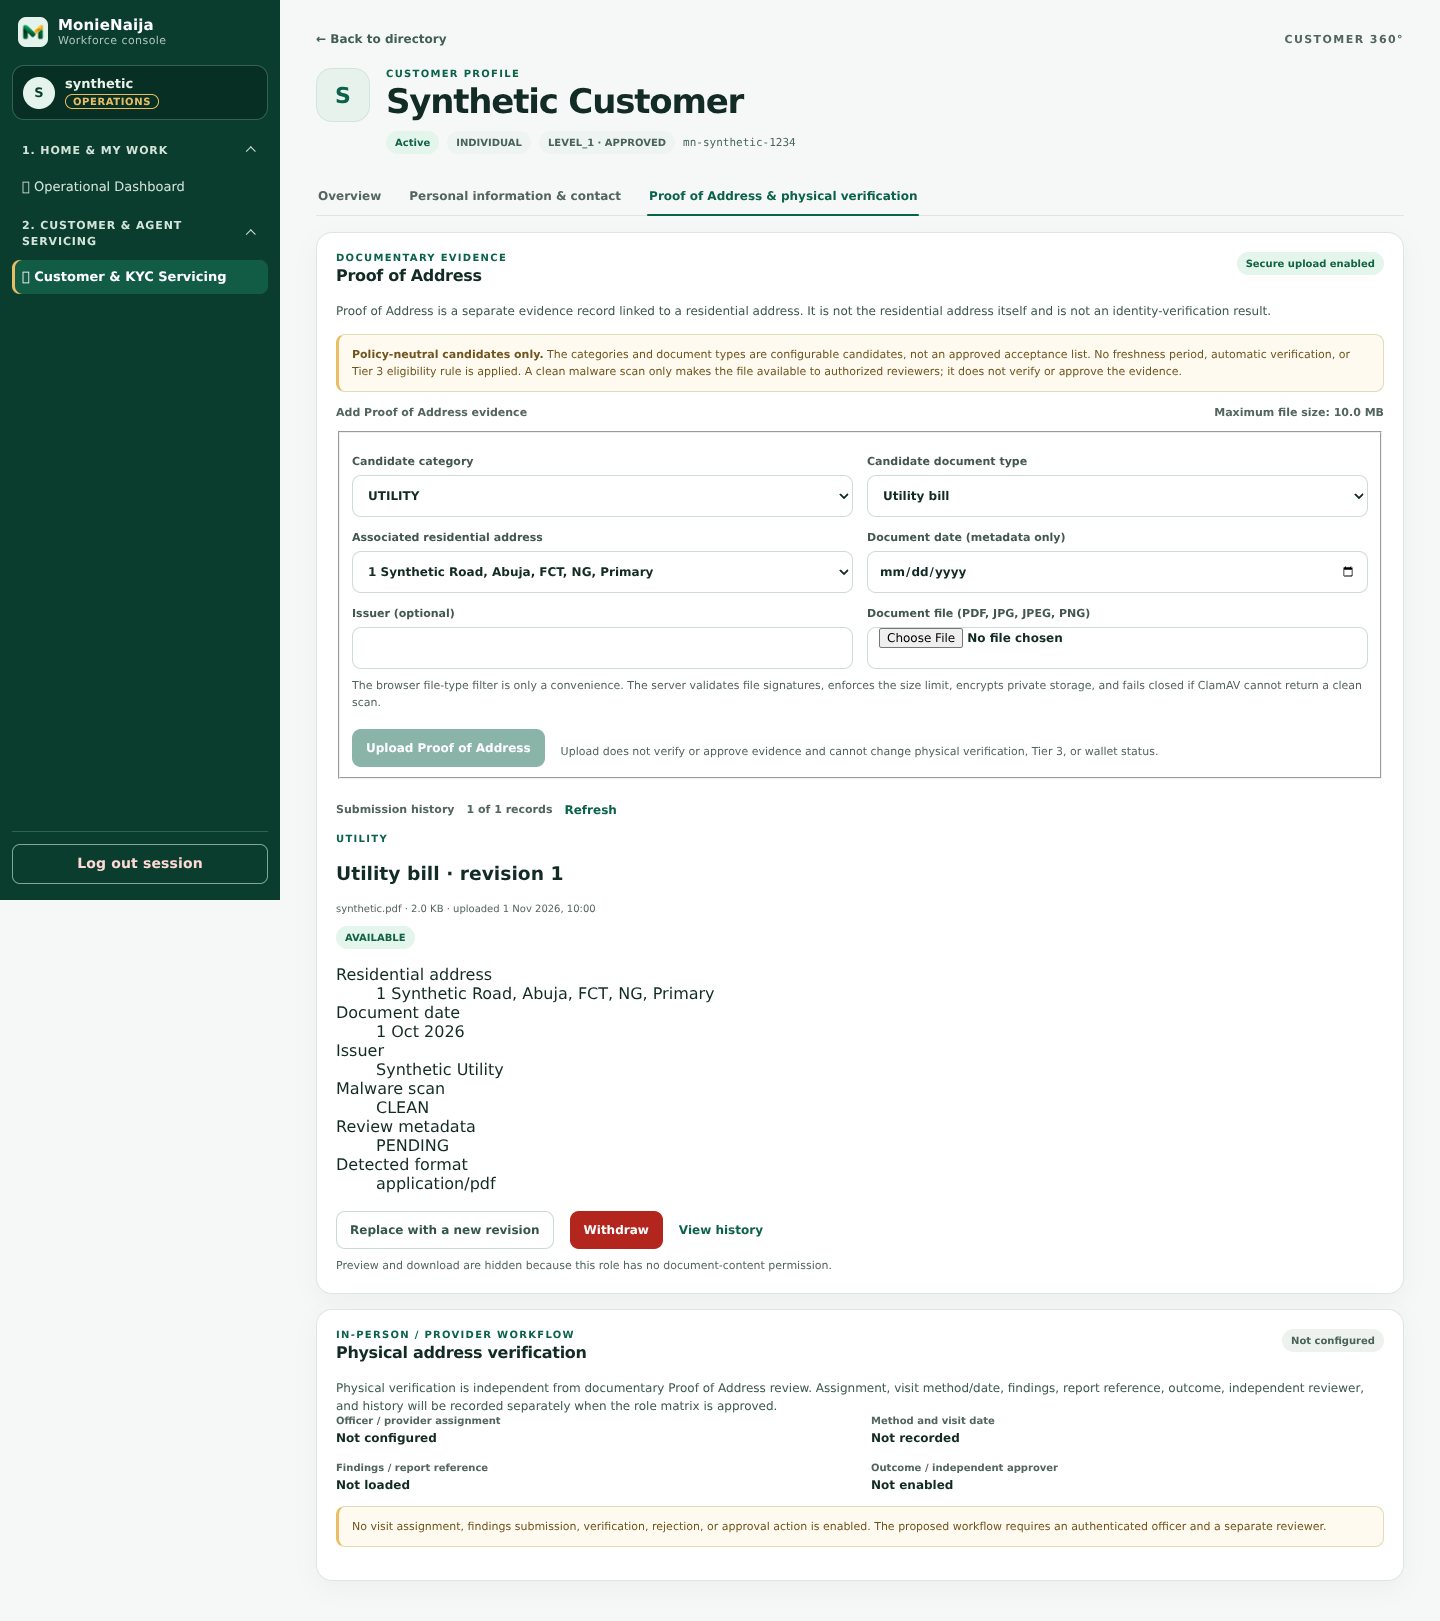
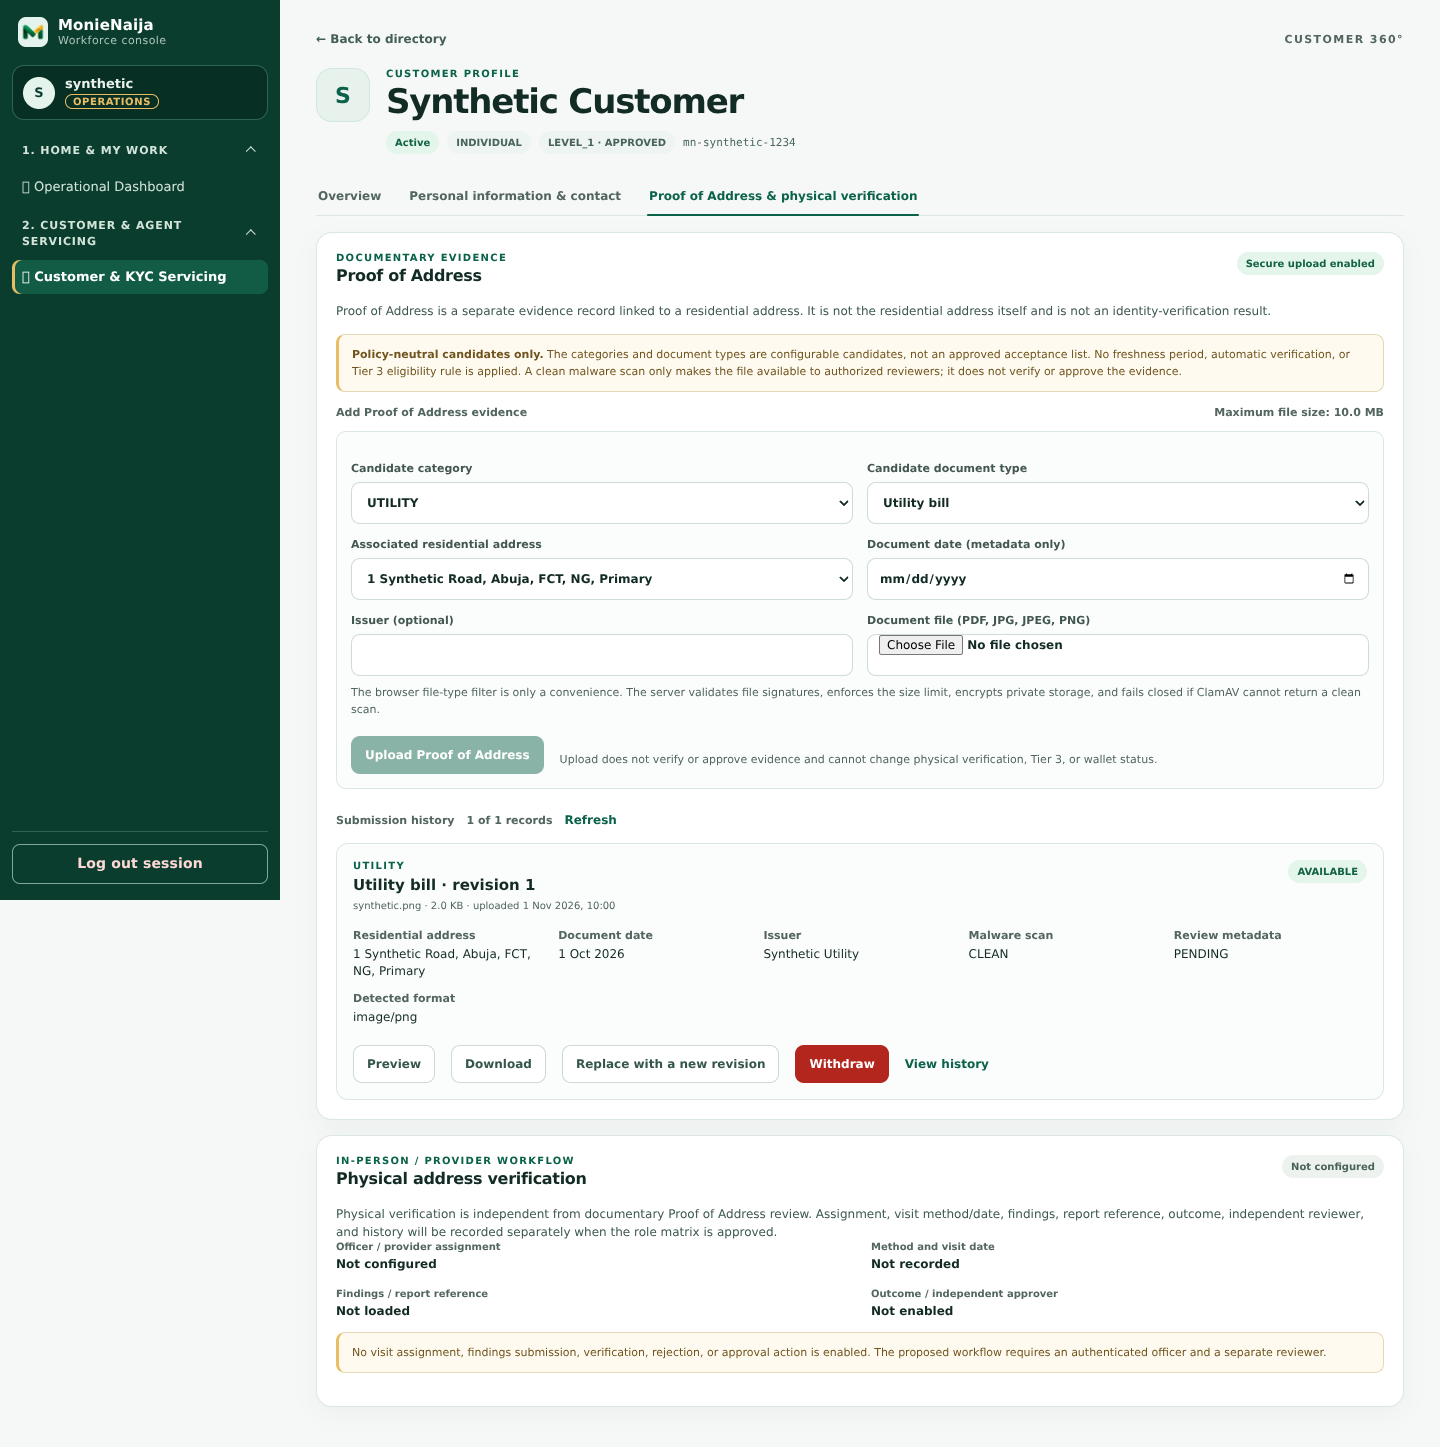
Improve proof of address focus and evidence layout

diff --git a/apps/admin-web/src/screens/authenticated/CustomerProofOfAddressPanel.tsx b/apps/admin-web/src/screens/authenticated/CustomerProofOfAddressPanel.tsx
@@ -272,8 +272,9 @@ export const CustomerProofOfAddressPanel: React.FC<CustomerProofOfAddressPanelPr
   const [lifecycleError, setLifecycleError] = useState<string | null>(null);
   const [lifecycleBusy, setLifecycleBusy] = useState(false);
   const previewDialogRef = useRef<HTMLElement>(null);
+  const previewTriggerRef = useRef<HTMLButtonElement | null>(null);
   const lifecycleDialogRef = useRef<HTMLFormElement>(null);
-  useDialogFocus(previewDialogRef, Boolean(preview), () => setPreview(null));
+  useDialogFocus(previewDialogRef, Boolean(preview), () => setPreview(null), previewTriggerRef);
   useDialogFocus(lifecycleDialogRef, Boolean(pendingLifecycle), () => { if (!lifecycleBusy) setPendingLifecycle(null); });
 
   const currentCustomerId = useRef(customerId);
@@ -636,7 +637,8 @@ export const CustomerProofOfAddressPanel: React.FC<CustomerProofOfAddressPanelPr
     }
   };
 
-  const openPreview = async (document: ProofOfAddressDocument) => {
+  const openPreview = async (document: ProofOfAddressDocument, trigger: HTMLButtonElement) => {
+    previewTriggerRef.current = trigger;
     previewRequest.current?.abort();
     const controller = new AbortController();
     previewRequest.current = controller;
@@ -1046,7 +1048,7 @@ export const CustomerProofOfAddressPanel: React.FC<CustomerProofOfAddressPanelPr
                           <button
                             className="cm-button cm-button-secondary"
                             type="button"
-                            onClick={() => void openPreview(document)}
+                            onClick={(event) => void openPreview(document, event.currentTarget)}
                             disabled={previewLoadingId === document.id}
                           >
                             {previewLoadingId === document.id ? 'Opening preview…' : 'Preview'}

diff --git a/apps/admin-web/__tests__/customer-proof-of-address.test.tsx b/apps/admin-web/__tests__/customer-proof-of-address.test.tsx
@@ -361,6 +361,26 @@ describe('Customer Proof of Address and readiness interfaces', () => {
     expect(screen.queryByText(/No Proof of Address records are stored/i)).toBeNull();
   });
 
+  test('asynchronous preview restores focus to its trigger even when focus leaves during loading', async () => {
+    setPermissions([...operationsScopes, 'customer.download_proof_of_address']);
+    configureEnabledApi();
+    let resolvePreview!: (blob: Blob) => void;
+    (ApiClient.getBlob as jest.Mock).mockImplementation(() => new Promise<Blob>((resolve) => { resolvePreview = resolve; }));
+    render(<CustomerProofOfAddressPanel customerId={customerId} />);
+    await screen.findByRole('heading', { name: 'Utility bill · revision 1' });
+    const trigger = screen.getByRole('button', { name: 'Preview' });
+    trigger.focus();
+    fireEvent.click(trigger);
+    expect(trigger).toHaveProperty('disabled', true);
+    trigger.blur();
+    resolvePreview(new Blob(['synthetic'], { type: 'application/pdf' }));
+    const dialog = await screen.findByRole('dialog');
+    expect(within(dialog).getByRole('button', { name: 'Close preview' })).toBe(document.activeElement);
+    fireEvent.keyDown(document.activeElement!, { key: 'Escape' });
+    expect(screen.queryByRole('dialog')).toBeNull();
+    expect(document.activeElement).toBe(trigger);
+  });
+
   test('document lifecycle dialog supports Escape and restores focus without submitting', async () => {
     setPermissions(operationsScopes);
     configureEnabledApi();

diff --git a/apps/admin-web/src/screens/authenticated/customer-management.css b/apps/admin-web/src/screens/authenticated/customer-management.css
@@ -1191,6 +1191,53 @@
   display: grid;
   gap: 15px;
 }
+.cm-poa-upload-form fieldset {
+  min-width: 0;
+  margin: 0;
+  border: 1px solid var(--cm-border);
+  border-radius: 10px;
+  padding: 14px;
+  background: #fbfdfc;
+}
+.cm-poa-document-list {
+  display: grid;
+  gap: 12px;
+  margin-top: 12px;
+}
+.cm-poa-document {
+  min-width: 0;
+  border: 1px solid var(--cm-border);
+  border-radius: 12px;
+  padding: 16px;
+  background: #fbfdfc;
+  overflow-wrap: anywhere;
+}
+.cm-poa-document-heading {
+  display: flex;
+  align-items: flex-start;
+  justify-content: space-between;
+  flex-wrap: wrap;
+  gap: 10px;
+}
+.cm-poa-document-heading h3 { margin: 5px 0; font-size: 15px; }
+.cm-poa-document-heading .cm-secondary-line { margin: 0; }
+.cm-poa-document-metadata {
+  display: grid;
+  grid-template-columns: repeat(auto-fit, minmax(min(100%, 180px), 1fr));
+  gap: 12px;
+  margin: 16px 0;
+}
+.cm-poa-document-metadata > div { min-width: 0; }
+.cm-poa-document-metadata dt {
+  color: var(--cm-muted);
+  font-size: 11px;
+  font-weight: 700;
+}
+.cm-poa-document-metadata dd {
+  margin: 4px 0 0;
+  font-size: 12px;
+  line-height: 1.45;
+}
 .cm-poa-metadata-preview {
   margin-top: 16px;
 }

diff --git a/apps/admin-web/src/utils/use-dialog-focus.ts b/apps/admin-web/src/utils/use-dialog-focus.ts
@@ -5,13 +5,14 @@ export function useDialogFocus<T extends HTMLElement>(
   dialog: RefObject<T>,
   open: boolean,
   onDismiss: () => void,
+  restoreFocusRef?: RefObject<HTMLElement>,
 ) {
   const dismiss = useRef(onDismiss);
   dismiss.current = onDismiss;
   useEffect(() => {
     if (!open || !dialog.current) return;
     const root = dialog.current;
-    const previous = document.activeElement instanceof HTMLElement ? document.activeElement : null;
+    const previous = restoreFocusRef?.current ?? (document.activeElement instanceof HTMLElement ? document.activeElement : null);
     const focusable = () => Array.from(root.querySelectorAll<HTMLElement>(
       'button:not([disabled]), input:not([disabled]):not([type="hidden"]), select:not([disabled]), textarea:not([disabled]), a[href], iframe, [tabindex]:not([tabindex="-1"])',
     )).filter(element => !element.hidden && element.getAttribute('aria-hidden') !== 'true');

diff --git a/docs/admin-m2/implementation-checklist.md b/docs/admin-m2/implementation-checklist.md
@@ -48,7 +48,7 @@ Baseline: `3b0ca4488fb40ac5a64ed4ff6264dc64be2e954e` (fetched integration branch
 | [E01](../design-discovery-20261029/01-inventory.md#E01) | Customer 360 workspace | Partial: customer-switch guards, honest readiness/errors, exact money, keyboard tabs and lifecycle dialog focus; synthetic populated overview at eight widths; action review pending. |
 | [E02](../design-discovery-20261029/01-inventory.md#E02) | Customer registration wizard | Partial: palette, current-step semantics, step and validation focus, close-trigger focus restoration and synthetic keyboard checks at eight widths; submission and full keyboard review pending. |
 | [E03](../design-discovery-20261029/01-inventory.md#E03) | Personal information & contact | Partial: safe failed/malformed reads and synthetic populated workspace at eight widths; action review pending. |
-| [E04](../design-discovery-20261029/01-inventory.md#E04) | Proof of address | Partial: safe failed/malformed reads and synthetic populated workspace at eight widths; action review pending. |
+| [E04](../design-discovery-20261029/01-inventory.md#E04) | Proof of address | Partial: safe failed/malformed reads, styled evidence records and synthetic populated workspace at eight widths; preview and withdrawal dialogs tested for keyboard trap, Escape and focus restoration including asynchronous preview; action review pending. |
 | [E05](../design-discovery-20261029/01-inventory.md#E05) | Tier 3 readiness | Partial: safe failed/malformed reads and synthetic populated workspace at eight widths; action review pending. |
 | [E06](../design-discovery-20261029/01-inventory.md#E06) | Agent funding/defunding | Partial: responsive funding form, verified maker/decision/posting receipts, recoverable retained drafts, scoped session and request guards; synthetic checker approval and posting at eight widths; broader maker/checker acceptance pending. |
 | [E07](../design-discovery-20261029/01-inventory.md#E07) | Agent credentials | Partial: scoped styles, credential request/context guards and secret clearing; synthetic loaded detail at eight widths; action review pending. |
@@ -72,10 +72,10 @@ An earlier UI note incorrectly stated that the case endpoint had no catalogue ch
 | Financial truth and data freshness | Partial: reconciliation does not equate zero binding discrepancies with balanced books; stale report flagged, C2C incomplete journals unknown, exact amounts in selected surfaces. Remaining financial displays and action states require review. |
 | Error vs empty / stale | Partial: Audit, history, Support, Compliance, Fraud, Workforce, Ledger, Agent lists, C2C and Notification read failures improved. Other surfaces and refresh races require review. |
 | Authorization, maker-checker, MFA and APIs | Existing tests pass; no intended policy, endpoint or financial action changes. Per-action/role acceptance remains. |
-| Responsive widths and zoom | [Navigation smoke](evidence/navigation-smoke.json): 224 synthetic mostly initial/503 cases at 320, 360, 390, 768, 769, 1024, 1280 and 1440 px, no document overflow. [Loaded smoke](evidence/loaded-smoke.json): 24 populated Support, Fees and Ledger cases at those widths, no document overflow. [Agent](evidence/agent-workspaces-smoke.json), [Customer](evidence/customer-workspaces-smoke.json), and [Notification workspaces](evidence/notification-workspaces-smoke.json) add 104 synthetic populated checks at eight widths with no document overflow. [Recovery](evidence/recovery-smoke.json), [Workforce](evidence/workforce-smoke.json) and [generic approvals](evidence/approvals-smoke.json) add 48 synthetic checks at eight widths without document overflow. [Compliance](evidence/compliance-smoke.json) adds 24 and [Agent classes](evidence/agent-classes-smoke.json) adds 8 loaded synthetic checks, also without document overflow. [Transactions](evidence/transaction-workspaces-smoke.json) add 24, [Finance](evidence/finance-workspaces-smoke.json) 16, [Commercial](evidence/commercial-workspaces-smoke.json) 48 and [System/Audit](evidence/system-audit-smoke.json) 16 and [Cash-to-Cash](evidence/cash-to-cash-smoke.json) 8 and [funding checker](evidence/funding-checker-smoke.json) 8 synthetic checks across the same widths, without page-wide overflow. This is not comprehensive responsive acceptance; real 200%/400% zoom and all other populated/action states remain. Headless Chromium did not respond to Ctrl-plus browser zoom (viewport and device pixel ratio unchanged); viewport-width checks are not claimed as zoom acceptance. |
-| Keyboard, contrast and assistive technology | Commercial tab keyboard test plus browser keyboard checks for mobile drawer trapping/Escape, Customer 360 dialog trapping/restoration, customer tabs and registration validation/close at the applicable widths; comprehensive manual keyboard, contrast and assistive technology review remains. |
+| Responsive widths and zoom | [Navigation smoke](evidence/navigation-smoke.json): 224 synthetic mostly initial/503 cases at 320, 360, 390, 768, 769, 1024, 1280 and 1440 px, no document overflow. [Loaded smoke](evidence/loaded-smoke.json): 24 populated Support, Fees and Ledger cases at those widths, no document overflow. [Agent](evidence/agent-workspaces-smoke.json), [Customer](evidence/customer-workspaces-smoke.json), and [Notification workspaces](evidence/notification-workspaces-smoke.json) add 133 synthetic populated and keyboard checks at eight widths with no document overflow. [Recovery](evidence/recovery-smoke.json), [Workforce](evidence/workforce-smoke.json) and [generic approvals](evidence/approvals-smoke.json) add 48 synthetic checks at eight widths without document overflow. [Compliance](evidence/compliance-smoke.json) adds 24 and [Agent classes](evidence/agent-classes-smoke.json) adds 8 loaded synthetic checks, also without document overflow. [Transactions](evidence/transaction-workspaces-smoke.json) add 24, [Finance](evidence/finance-workspaces-smoke.json) 16, [Commercial](evidence/commercial-workspaces-smoke.json) 48 and [System/Audit](evidence/system-audit-smoke.json) 16 and [Cash-to-Cash](evidence/cash-to-cash-smoke.json) 8 and [funding checker](evidence/funding-checker-smoke.json) 8 synthetic checks across the same widths, without page-wide overflow. This is not comprehensive responsive acceptance; real 200%/400% zoom and all other populated/action states remain. Headless Chromium did not respond to Ctrl-plus browser zoom (viewport and device pixel ratio unchanged); viewport-width checks are not claimed as zoom acceptance. |
+| Keyboard, contrast and assistive technology | Commercial tab keyboard test plus browser keyboard checks for mobile drawer trapping/Escape, Customer 360 dialog trapping/restoration, customer tabs, registration validation/close and Proof of Address preview/withdrawal dialogs at the applicable widths; comprehensive manual keyboard, contrast and assistive technology review remains. |
 | Visual design, screenshots and owner acceptance | [Synthetic screenshots and scripts](evidence/) include Login, Dashboard, Support, Agents, Notifications, Transfers, populated Fees and Ledger at selected widths. They are not visual acceptance. Obtain Product/Design, Accessibility, Security and Finance/Operations review as applicable; historical design approval remains unconfirmed. |
-| Automated checks | Latest full run: frontend typecheck, 56 Jest suites / 418 tests and production build passed; `git diff --check` passed. React test `act(...)` warnings, Vite CJS deprecation and >500 kB bundle warning remain. No Admin lint script provided. |
+| Automated checks | Latest full run: frontend typecheck, 56 Jest suites / 419 tests and production build passed; `git diff --check` passed. React test `act(...)` warnings, Vite CJS deprecation and >500 kB bundle warning remain. No Admin lint script provided. |
 | CI, PR and integration | Not run / not opened / not merged: substantial implementation and acceptance remain outstanding. |
 
 ## Continuation plan
